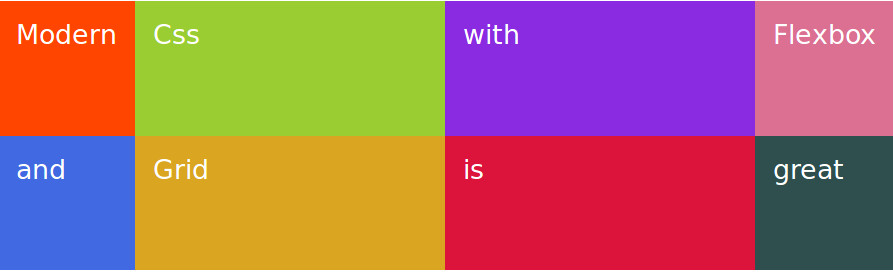
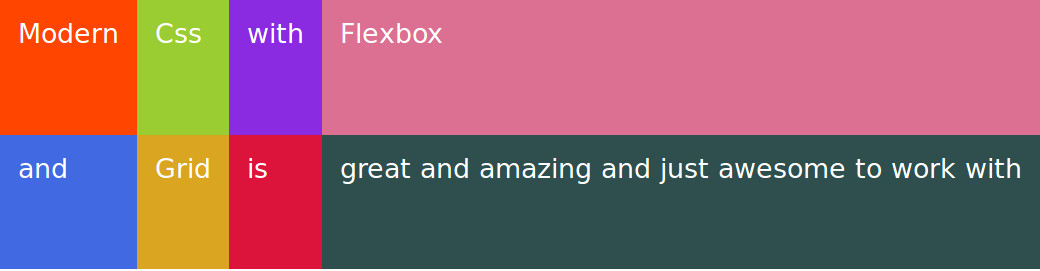
Use min-content to acomodate the large text instead of max-content. The column track takes the largest width that is needed to fit item-8 content without overflowing. But does overflow a bit down the bottom right corner of the grid. The problem is just the width of the awesome word.That is the minim

diff --git a/scss/style.scss b/scss/style.scss
@@ -5,7 +5,7 @@
   
   display: grid;
   grid-template-rows: repeat(2, 150px);
-  grid-template-columns: max-content 1fr 1fr max-content;
+  grid-template-columns: max-content 1fr 1fr min-content;
   
   .item {
     padding: 20px;
